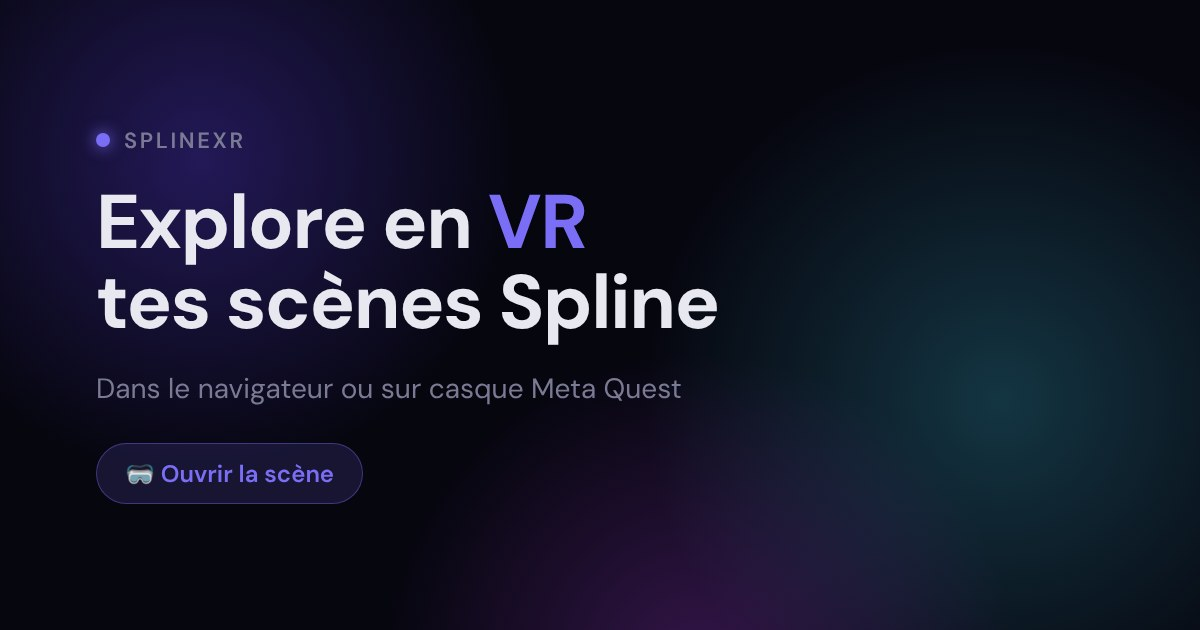
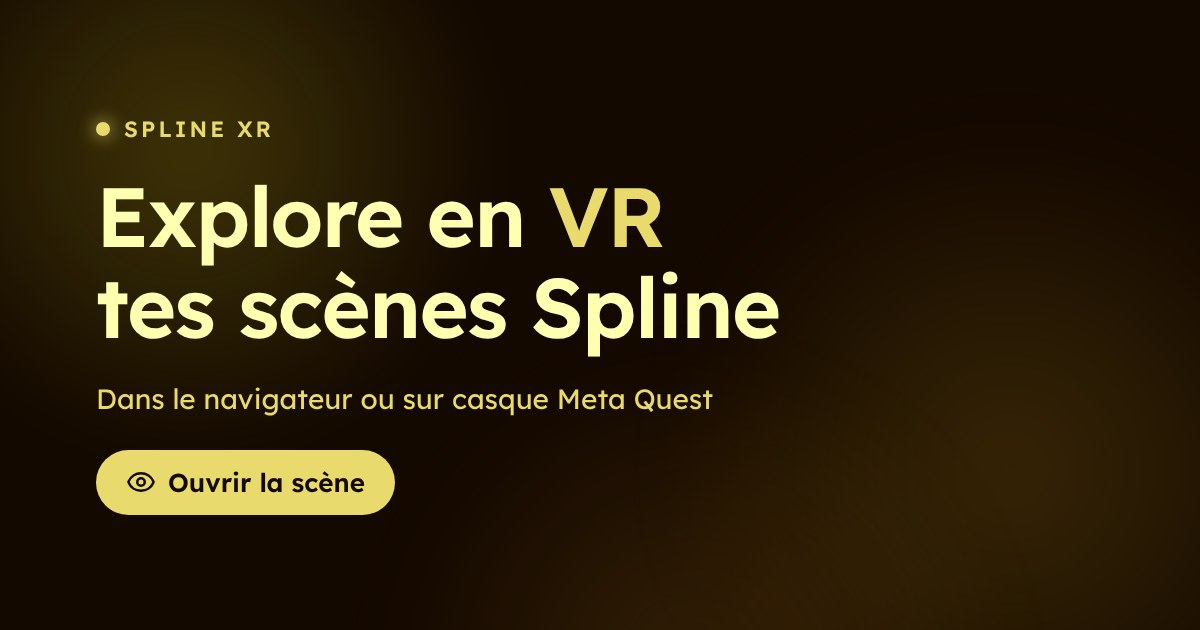
"Spline XR" spelling, page title, Yelbolt link previews
- Name spelled "Spline XR" everywhere (UI, page and preview titles, docs,
  licence, logs); repository, package and URLs stay spline-xr.
- Page title: "Spline XR – Export your scene to VR" / "Spline XR – Exporter
  ta scène en VR" (translated); default og:title to match.
- Default link-preview images (EN/FR) redrawn in the Yelbolt style: Lexend,
  yellow on dark, eye icon instead of the emoji. DM Sans no longer used.

Claude-Session: https://claude.ai/code/session_01HRPh4uGigc3vbFzUUXpv9u

diff --git a/src/main.js b/src/main.js
@@ -27,8 +27,8 @@ const DEBUG = PARAMS.has('debug')
 const WORLD_SCALE = parseFloat(PARAMS.get('scale')) || 0.001
 const EYE_HEIGHT = 1.6        // assumed eye height in local-floor (m)
 const MIN_SCALE = WORLD_SCALE / 20, MAX_SCALE = WORLD_SCALE * 20
-const log  = (...a) => { if (DEBUG) console.log('[SplineXR]', ...a) }
-const warn = (...a) => console.warn('[SplineXR]', ...a)
+const log  = (...a) => { if (DEBUG) console.log('[Spline XR]', ...a) }
+const warn = (...a) => console.warn('[Spline XR]', ...a)
 
 
 // ── DOM ────────────────────────────────────────────────────────────────────────
@@ -1073,7 +1073,7 @@ async function loadScene(scene, { fromRoute = false, save = false, editKey = nul
     if (!fromRoute && location.pathname + location.search !== url) history.pushState(null, '', url)
     // Scene title in the tab (removed from automatic translation while the scene is open)
     const titleEl = document.querySelector('title')
-    if (scene.t) { setText(titleEl, ''); document.title = `${scene.t} — SplineXR` }
+    if (scene.t) { setText(titleEl, ''); document.title = `${scene.t} — Spline XR` }
     else setText(titleEl, 'home.pageTitle')
     setText(loadMsg, 'loading.build')
     teardownEngines()
@@ -1105,7 +1105,7 @@ async function loadScene(scene, { fromRoute = false, save = false, editKey = nul
     showShareBar(scene)
     scheduleThumbnail(scene.id)
   } catch (err) {
-    console.error('[SplineXR]', err)
+    console.error('[Spline XR]', err)
     loadingEl.classList.remove('visible'); configEl.classList.remove('out')
     goBtn.disabled = false
     if (fromRoute) { history.replaceState(null, '', routeUrl('/')); home.editScene(scene) }

diff --git a/index.html b/index.html
@@ -3,13 +3,13 @@
 <head>
 <meta charset="UTF-8">
 <meta name="viewport" content="width=device-width,initial-scale=1">
-<title data-i18n="home.pageTitle">SplineXR</title>
+<title data-i18n="home.pageTitle">Spline XR – Export your scene to VR</title>
 <meta name="description" content="Explore Spline 3D scenes in the browser or in VR on a Meta Quest headset.">
 <!-- Preview tags: rewritten for each /s/<id> link (and the visitor's language) by netlify/edge-functions/og.js -->
 <meta property="og:type" content="website">
-<meta property="og:site_name" content="SplineXR">
+<meta property="og:site_name" content="Spline XR">
 <meta property="og:url" content="https://spline-xr.netlify.app/">
-<meta property="og:title" content="SplineXR — your Spline scenes in VR">
+<meta property="og:title" content="Spline XR – Export your scene to VR">
 <meta property="og:description" content="Explore Spline 3D scenes in the browser or in VR on a Meta Quest headset.">
 <meta property="og:image" content="https://spline-xr.netlify.app/og-default.jpg">
 <meta property="og:image:width" content="1200">
@@ -355,7 +355,7 @@ input[type=text].error { border-color: var(--input-border-color-error-default, v
   <main class="home">
     <div class="card">
       <div class="home-top">
-        <div class="logo"><span class="logo-dot"></span>SplineXR</div>
+        <div class="logo"><span class="logo-dot"></span>Spline XR</div>
         <div id="lang-slot"></div>
       </div>
       <div>

diff --git a/netlify/edge-functions/og.js b/netlify/edge-functions/og.js
@@ -5,13 +5,13 @@ const ID_RE = /^[A-Za-z0-9_-]{6,64}$/
 
 const STRINGS = {
   en: {
-    title: 'Spline scene in VR — SplineXR',
-    titled: t => `${t} — SplineXR`,
+    title: 'Spline scene in VR — Spline XR',
+    titled: t => `${t} — Spline XR`,
     description: 'Explore this 3D scene in the browser or in VR on a Meta Quest headset.',
   },
   fr: {
-    title: 'Scène Spline en VR — SplineXR',
-    titled: t => `${t} — SplineXR`,
+    title: 'Scène Spline en VR — Spline XR',
+    titled: t => `${t} — Spline XR`,
     description: 'Explore cette scène 3D dans le navigateur ou en VR sur un casque Meta Quest.',
   },
 }

diff --git a/README.md b/README.md
@@ -1,10 +1,10 @@
-# SplineXR
+# Spline XR
 
 **Play your Spline scenes in VR on a Meta Quest headset — in the browser, with a simple link.**
 
 [Live site](https://spline-xr.netlify.app) · [Français](README.fr.md) · [Contributing](CONTRIBUTING.md)
 
-SplineXR is an open-source WebXR tool made for design students. No app to install, no code, no Node.js for the people who use it: design a scene in [Spline](https://spline.design), paste its export link, get a link to share. The same link opens on a computer (mouse preview) and in a Meta Quest headset (immersive VR, with controllers or hand tracking).
+Spline XR is an open-source WebXR tool made for design students. No app to install, no code, no Node.js for the people who use it: design a scene in [Spline](https://spline.design), paste its export link, get a link to share. The same link opens on a computer (mouse preview) and in a Meta Quest headset (immersive VR, with controllers or hand tracking).
 
 - **No headset**: the scene runs in the official Spline runtime — exact rendering, animations, states, sounds and mouse interactions.
 - **Headset detected**: the scene runs in a home-made WebXR engine that replays Spline interactions with the controllers' ray, the trigger, pinching or a fingertip touch.
@@ -142,7 +142,7 @@ Deployment: a Netlify site linked to the repository, build `npm run build`, publ
 
 ## Attributions
 
-SplineXR stands on the work of others. Thank you to them.
+Spline XR stands on the work of others. Thank you to them.
 
 | Component | Use | License |
 |---|---|---|
@@ -152,8 +152,7 @@ SplineXR stands on the work of others. Thank you to them.
 | [Netlify Blobs](https://github.com/netlify/blobs) (`@netlify/blobs`) and [`@netlify/functions`](https://github.com/netlify/primitives) | Storage of link preview images, cache purge | MIT |
 | [Vite](https://vitejs.dev) | Build | MIT |
 | [Unoff UI](https://github.com/yelbolt/unoff-ui) (`@unoff/ui`) | Yelbolt design tokens: colours, radii, type, and component tokens (button, input, card, chip…) | MIT |
-| [Lexend](https://fonts.google.com/specimen/Lexend) via [`@fontsource-variable/lexend`](https://fontsource.org/fonts/lexend) | Typeface (Yelbolt theme), served with the app | SIL Open Font License 1.1 |
-| [DM Sans](https://fonts.google.com/specimen/DM+Sans) | Typeface of the default link-preview images | SIL Open Font License 1.1 |
+| [Lexend](https://fonts.google.com/specimen/Lexend) via [`@fontsource-variable/lexend`](https://fontsource.org/fonts/lexend) | Typeface (Yelbolt theme), served with the app and used in the default link-preview images | SIL Open Font License 1.1 |
 | [Spline AR](https://github.com/a-ng-d/spline-ar) | "My creations" principle, `src/i18n.js` | Same author |
 
 "Spline" is a trademark of Spline Design Inc.; "Meta Quest" is a trademark of Meta Platforms, Inc. This project is independent and **not affiliated with, endorsed or sponsored by** Spline or Meta.

diff --git a/README.fr.md b/README.fr.md
@@ -1,10 +1,10 @@
-# SplineXR
+# Spline XR
 
 **Joue tes scènes Spline en VR dans un casque Meta Quest — dans le navigateur, avec un simple lien.**
 
 [Site en ligne](https://spline-xr.netlify.app) · [English](README.md) · [Contribuer](CONTRIBUTING.md)
 
-SplineXR est un outil WebXR open source pensé pour des étudiants en design. Pas d'appli à installer, pas de code, pas de Node.js pour celles et ceux qui l'utilisent : on crée une scène dans [Spline](https://spline.design), on colle son lien d'export, on obtient un lien à partager. Le même lien s'ouvre sur ordinateur (aperçu à la souris) et dans un casque Meta Quest (VR immersive, avec les manettes ou les mains).
+Spline XR est un outil WebXR open source pensé pour des étudiants en design. Pas d'appli à installer, pas de code, pas de Node.js pour celles et ceux qui l'utilisent : on crée une scène dans [Spline](https://spline.design), on colle son lien d'export, on obtient un lien à partager. Le même lien s'ouvre sur ordinateur (aperçu à la souris) et dans un casque Meta Quest (VR immersive, avec les manettes ou les mains).
 
 - **Sans casque** : la scène tourne dans le runtime officiel de Spline — rendu, animations, états, sons et interactions à la souris exacts.
 - **Casque détecté** : la scène tourne dans un moteur WebXR maison qui rejoue les interactions Spline avec le rayon des manettes, la gâchette, le pincement ou le toucher du bout du doigt.
@@ -142,7 +142,7 @@ Déploiement : un site Netlify relié au dépôt, build `npm run build`, dossier
 
 ## Attributions
 
-Voir la section [Attributions du README anglais](README.md#attributions) : Spline (runtime et loader, avec howler.js), three.js, Tolgee, Netlify Blobs et Functions, Vite, Unoff UI (thème Yelbolt), Lexend, DM Sans, Spline AR.
+Voir la section [Attributions du README anglais](README.md#attributions) : Spline (runtime et loader, avec howler.js), three.js, Tolgee, Netlify Blobs et Functions, Vite, Unoff UI (thème Yelbolt), Lexend, Spline AR.
 
 « Spline » est une marque de Spline Design Inc. ; « Meta Quest » est une marque de Meta Platforms, Inc. Ce projet est indépendant et **n'est ni affilié, ni approuvé, ni sponsorisé** par Spline ou Meta.
 

diff --git a/CONTRIBUTING.md b/CONTRIBUTING.md
@@ -1,6 +1,6 @@
-# Contributing to SplineXR
+# Contributing to Spline XR
 
-Thank you for wanting to help! SplineXR is a small tool made for design students, so the guiding rule is: **it must stay simple for the people who use it**. No account, no install, no code on their side — a Spline link in, a link to share out.
+Thank you for wanting to help! Spline XR is a small tool made for design students, so the guiding rule is: **it must stay simple for the people who use it**. No account, no install, no code on their side — a Spline link in, a link to share out.
 
 Contributions are welcome in English or French (issues, pull requests, discussions).
 

diff --git a/CODE_OF_CONDUCT.md b/CODE_OF_CONDUCT.md
@@ -1,6 +1,6 @@
 # Code of Conduct
 
-SplineXR was born in a design school, and many of the people around it are students. We want this project to be a welcoming place to learn, ask questions and share work, whatever your level, background or identity.
+Spline XR was born in a design school, and many of the people around it are students. We want this project to be a welcoming place to learn, ask questions and share work, whatever your level, background or identity.
 
 ## What we expect
 
